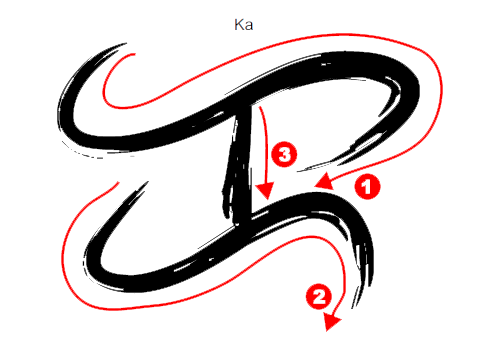
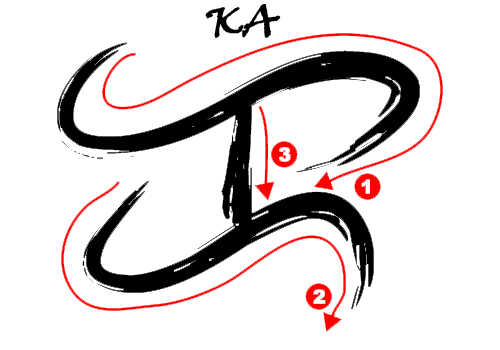
Include name of char, tutorial update

Changed region(s): [[0.39, 0.0, 0.57, 0.1143]]

diff --git a/public/tutorial.html b/public/tutorial.html
@@ -47,7 +47,7 @@
     
   }
   function next(){
-    if(page==5){
+    if(page==7){
       self.location.replace('home.html');
     }
     page++;
